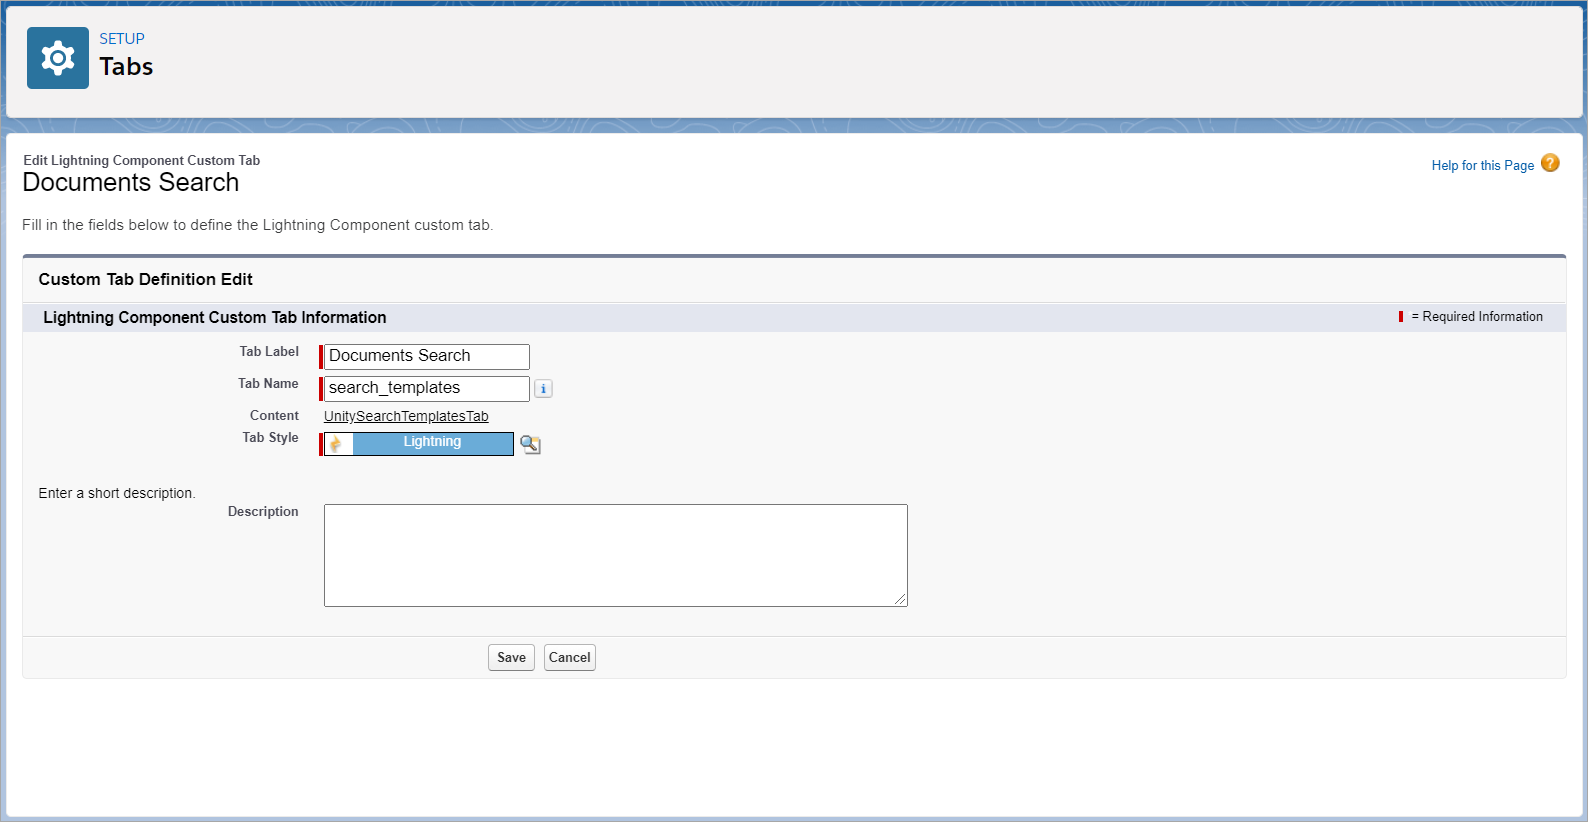
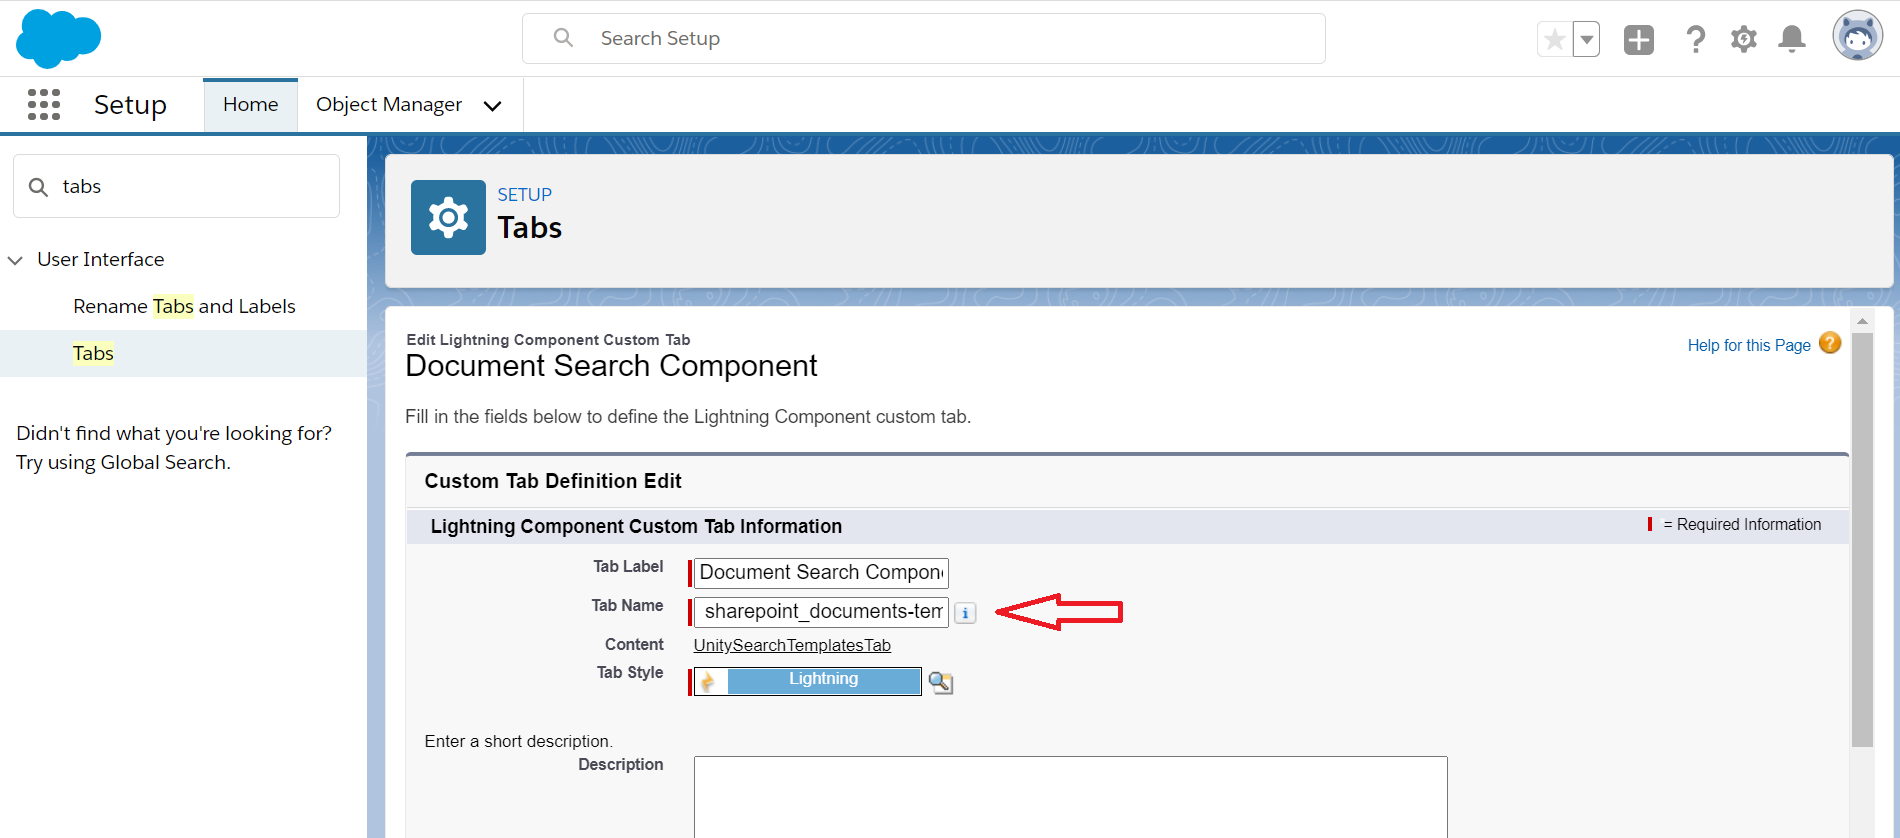
Configure Unity tab in Salesforce section is updated, image28 is updated

Changed region(s): [[0.0, 0.0, 1.0, 1.0]]

diff --git a/_docs/unity-salesforce/installation/installing-unity-salesforce.md b/_docs/unity-salesforce/installation/installing-unity-salesforce.md
@@ -214,12 +214,12 @@ After certificate for a given Unity site is obtained it should be installed on a
 
 - Enter the information below to create the new tab and click `Save`:
 
-  | Field               | Value                                                                                                             | Example          |
-  | :------------------ | :---------------------------------------------------------------------------------------------------------------- | :--------------- |
-  | Lightning Component | c:UnitySearchTemplatesTab (deployed package), Intellective2:UnitySearchTemplatesTab (installed package)           |                  |
-  | Tab Label           | Any unique Tab name that will be displayed in the Salesforce                                                      | Documents Search |
-  | Tab Name            | Should be matched with Tab Id that was configured in the Unity application. This ID can be used only for one Tab. | search_templates |
-  | Tab Style           | Select from the list                                                                                              | Lightning        |
+  | Field               | Value                                                                                                                                                                              | Example                        |
+  | :------------------ | :--------------------------------------------------------------------------------------------------------------------------------------------------------------------------------- | :----------------------------- |
+  | Lightning Component | c:UnitySearchTemplatesTab (deployed package), Intellective2:UnitySearchTemplatesTab (installed package)                                                                            |                                |
+  | Tab Label           | Any unique Tab name that will be displayed in the Salesforce                                                                                                                       | Documents Search               |
+  | Tab Name            | Should be matched with Tab Id that was configured in the Unity application. This ID can be used only for one Tab. Template IDS must be under 40 characters and contain underscores | sharepoint_documents-templates |
+  | Tab Style           | Select from the list                                                                                                                                                               | Lightning                      |
 
   ![u4sf](installing-unity-salesforce/images/image28.png)
 
@@ -299,7 +299,7 @@ How to add Unity Validator tab:
 - Ensure that tab is not hidden, i.e. Tab settings set to `Default On`:
 
   ![u4sf](installing-unity-salesforce/images/image45.png)
-  
+
 - If it’s hidden, click `Edit` button and change visibility. Click `Save`:
 
   ![u4sf](installing-unity-salesforce/images/image46.png)
